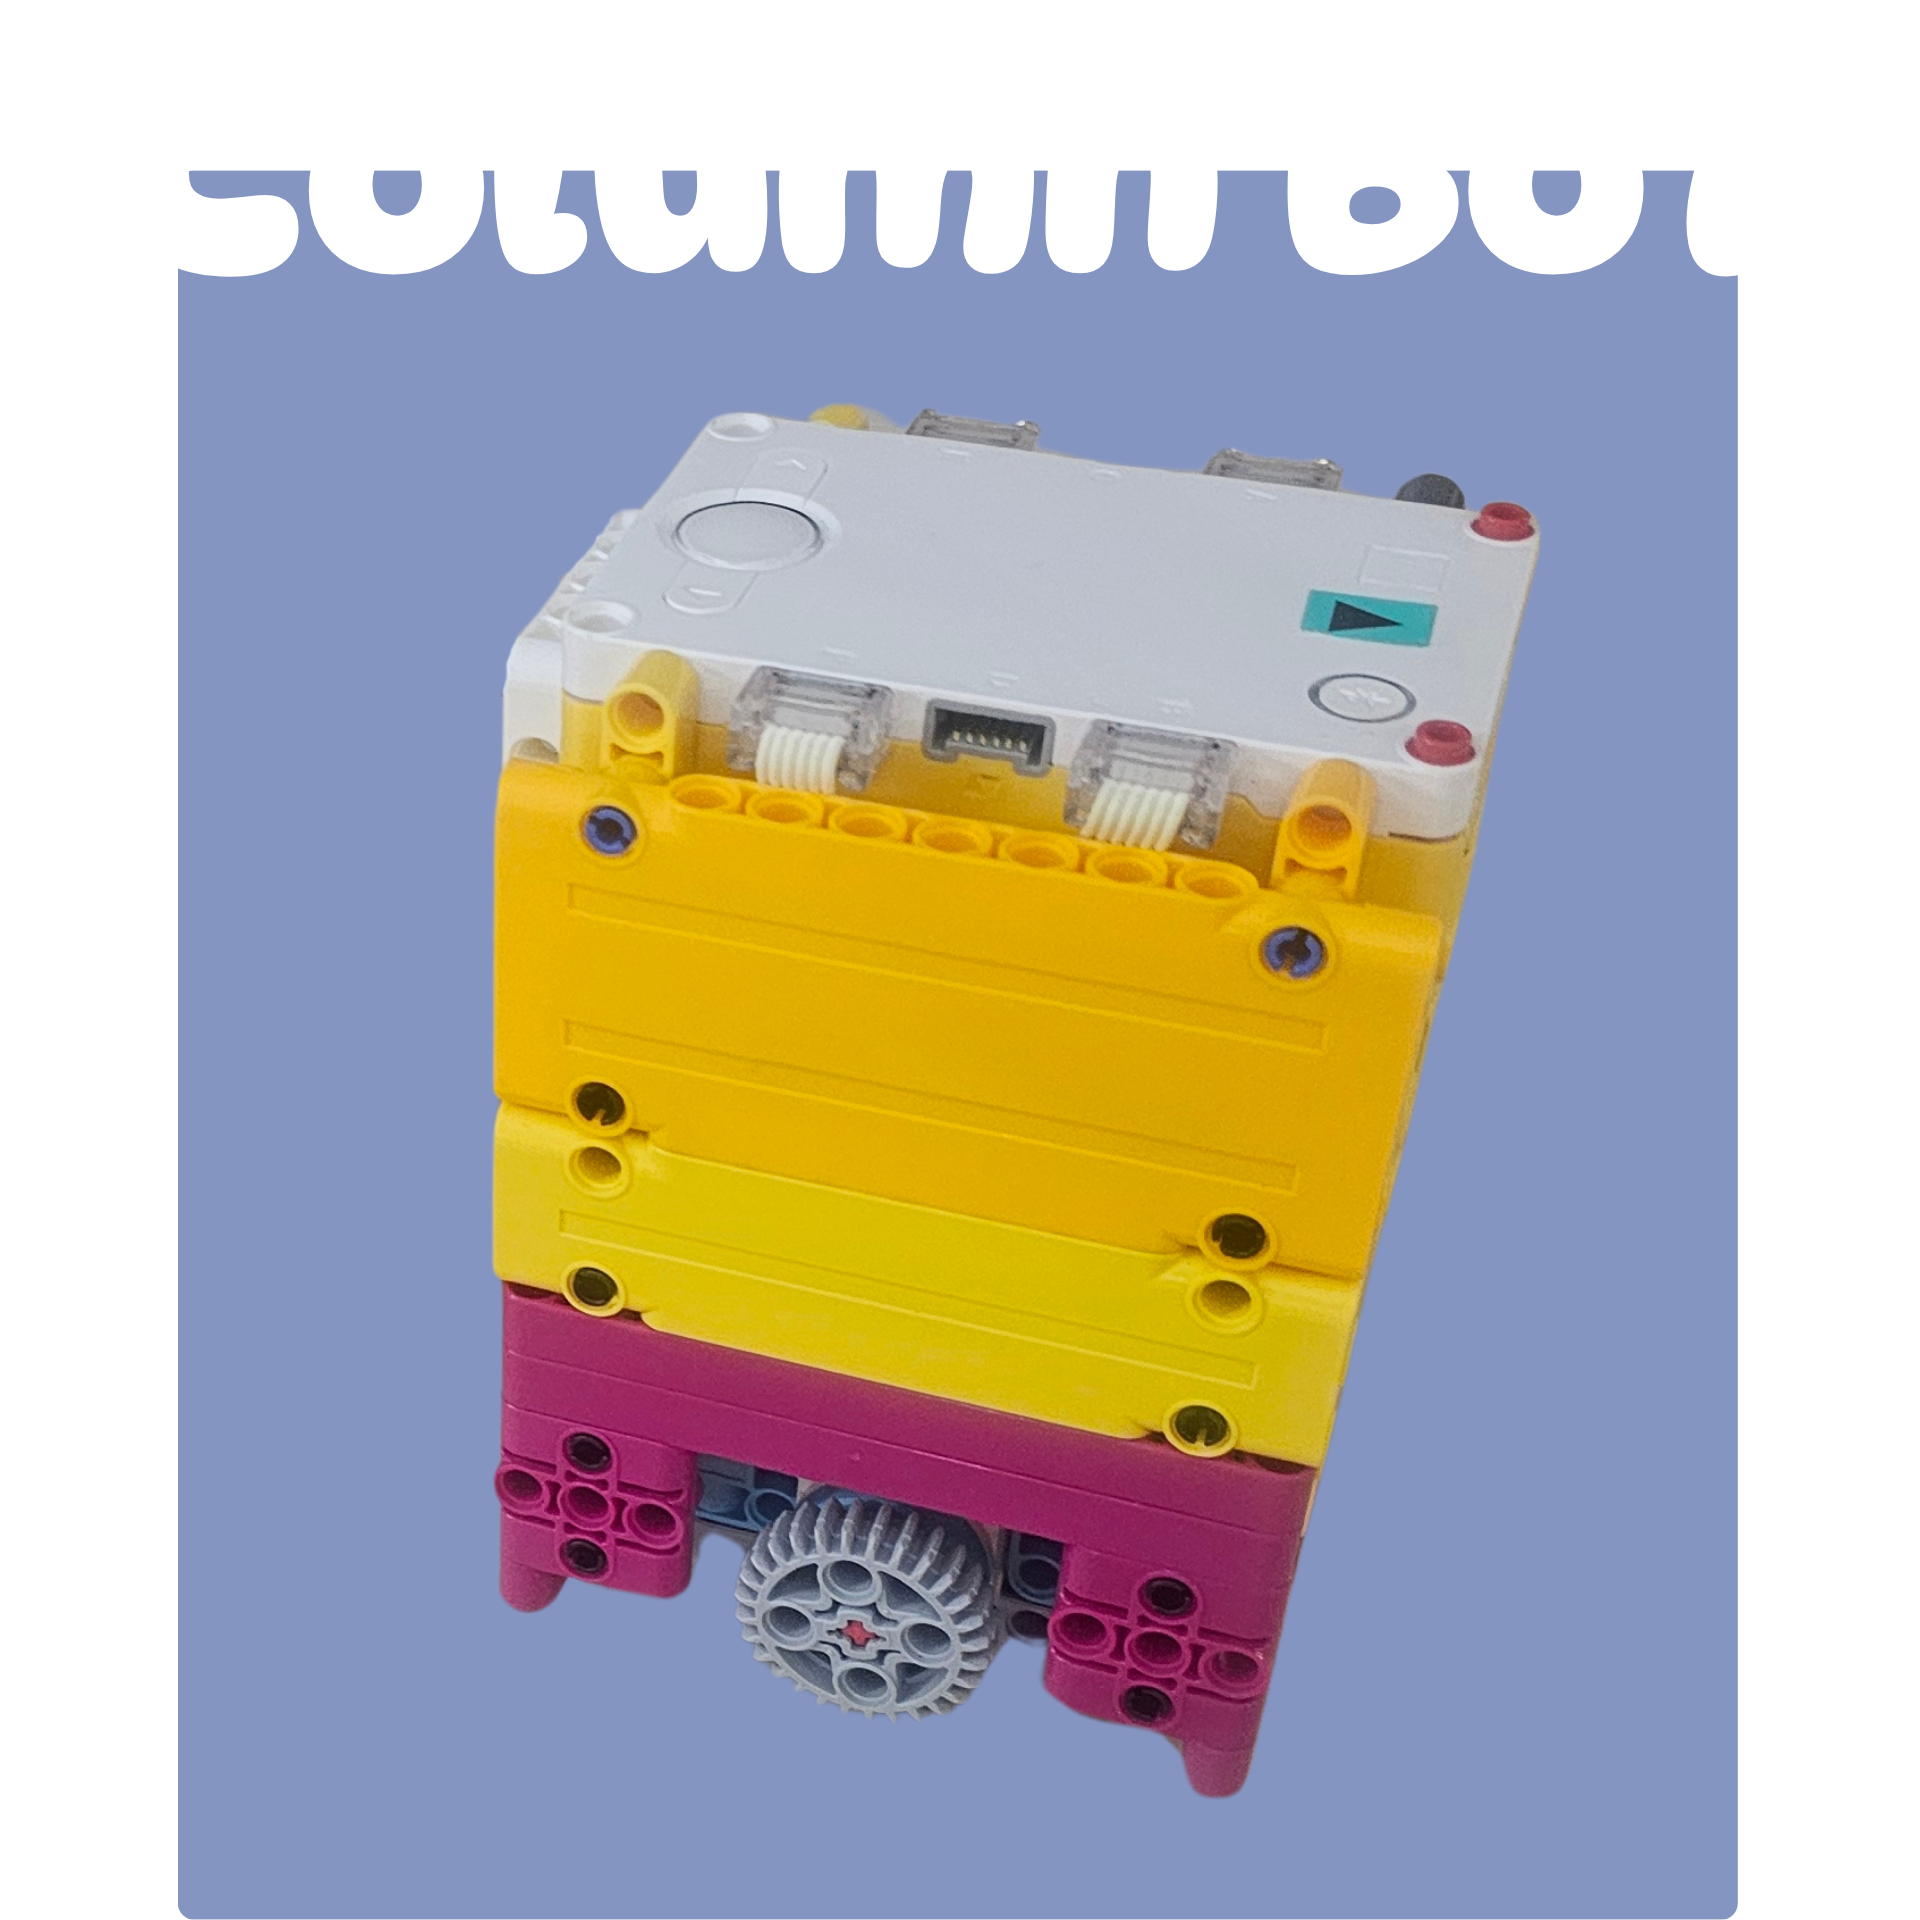
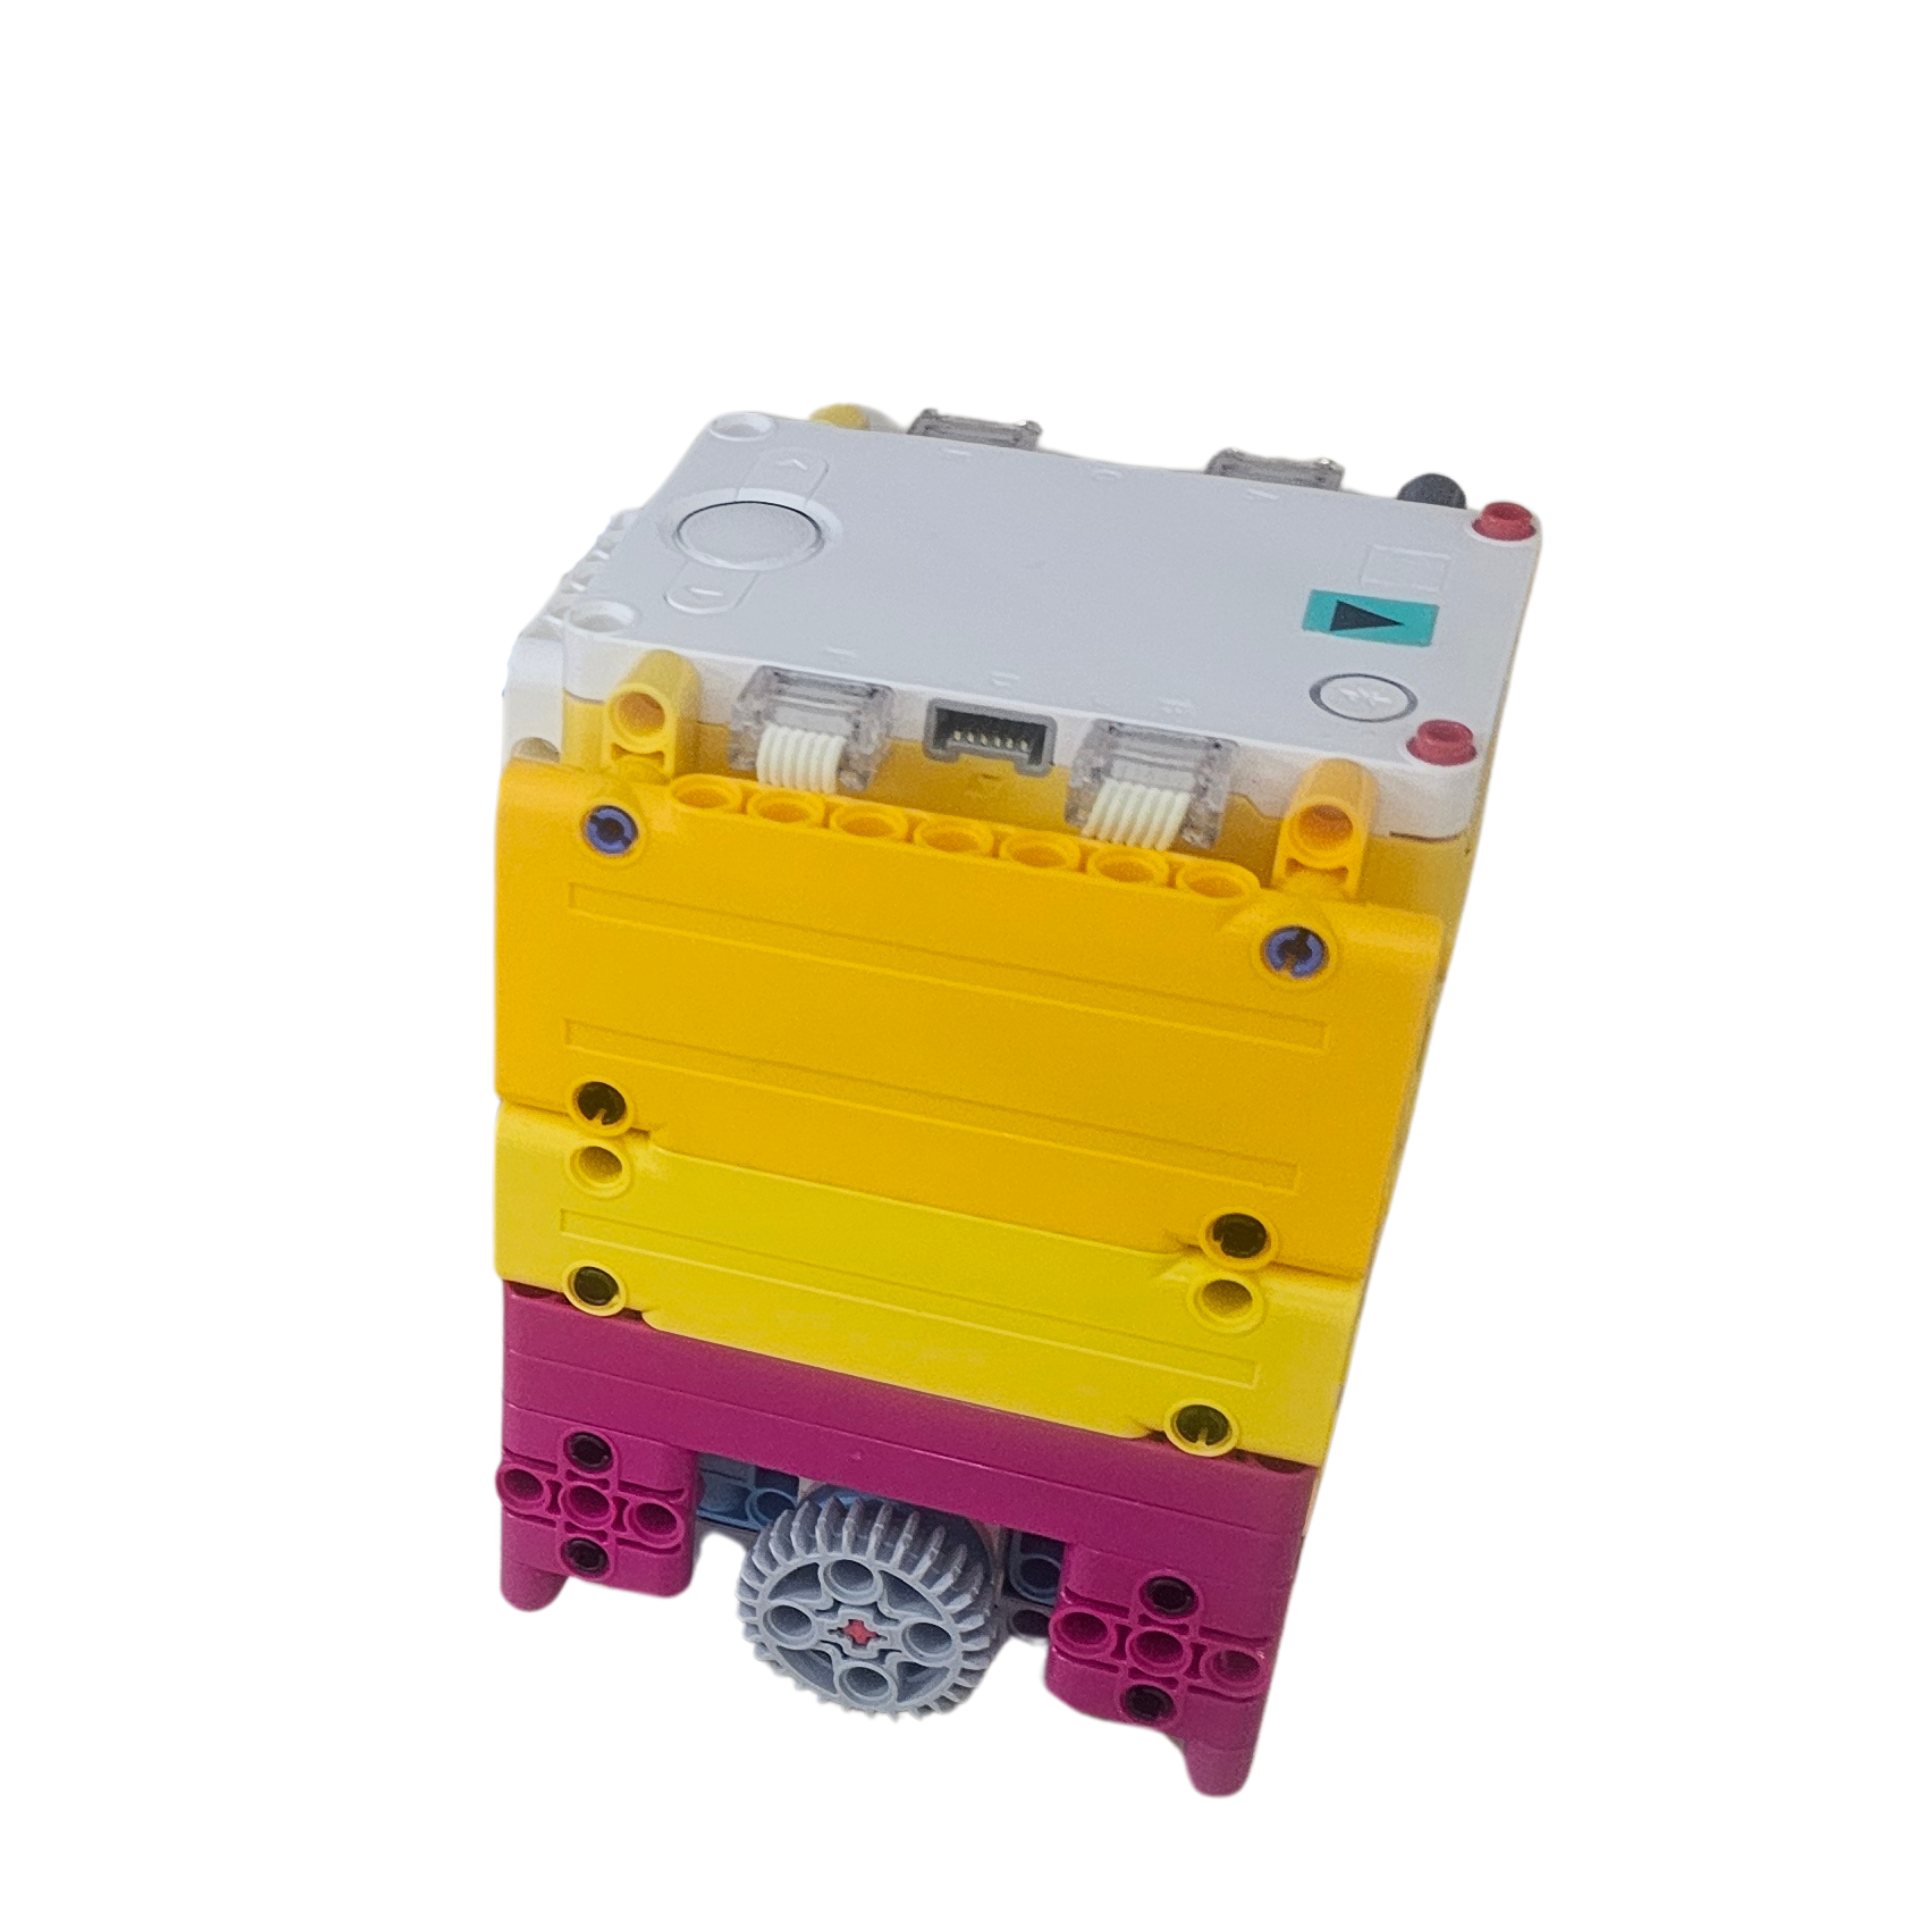
fixed images now robot looks good

diff --git a/FirstRobot.html b/FirstRobot.html
@@ -2,7 +2,7 @@
 <html lang="en-US">
 <head>
   <meta charset="utf-8"/>
-  <title>Tower – Steel Synapse Robot</title>
+  <title>bot – Steel Synapse Robot</title>
   <meta name="viewport" content="width=device-width, initial-scale=1">
   <link href="https://fonts.googleapis.com/css2?family=Fredoka:wght@400;600;700&family=Nunito:wght@400;600;700;800&display=swap" rel="stylesheet">
   <style>
@@ -279,7 +279,7 @@
       aspect-ratio: 4/3;
       display: flex; align-items: center; justify-content: center;
     }
-    .flipped-img img { width: 100%; height: 100%; object-fit: cover; display: block; }
+    .flipped-img img { width: 75%; height:auto; object-fit: cover; display: block; }
     .flipped-quote {
       font-family: 'Fredoka', sans-serif;
       font-size: .95rem; font-weight: 700;
@@ -303,15 +303,18 @@
       margin-top: 18px;
     }
     .tower-photo {
-      border-radius: 12px; overflow: hidden;
+      border-radius: 12px; 
+      overflow: hidden;
       border: 2px solid var(--border);
       background: var(--mid);
       aspect-ratio: 4/3;
-      display: flex; align-items: center; justify-content: center;
+      display: flex; 
+      align-items: center; 
+      justify-content: center;
       transition: border-color .25s, transform .25s;
     }
     .tower-photo:hover { border-color: rgba(255,221,0,.4); transform: translateY(-3px); }
-    .tower-photo img { width: 100%; height: 100%; object-fit: cover; display: block; }
+    .tower-photo img { width: 100%; height: 100%; object-fit: contain; display: block; }
 
     /* ── COMPETITION ROWS ── */
     .comp-rows { margin-top: 18px; display: flex; flex-direction: column; gap: 10px; }
